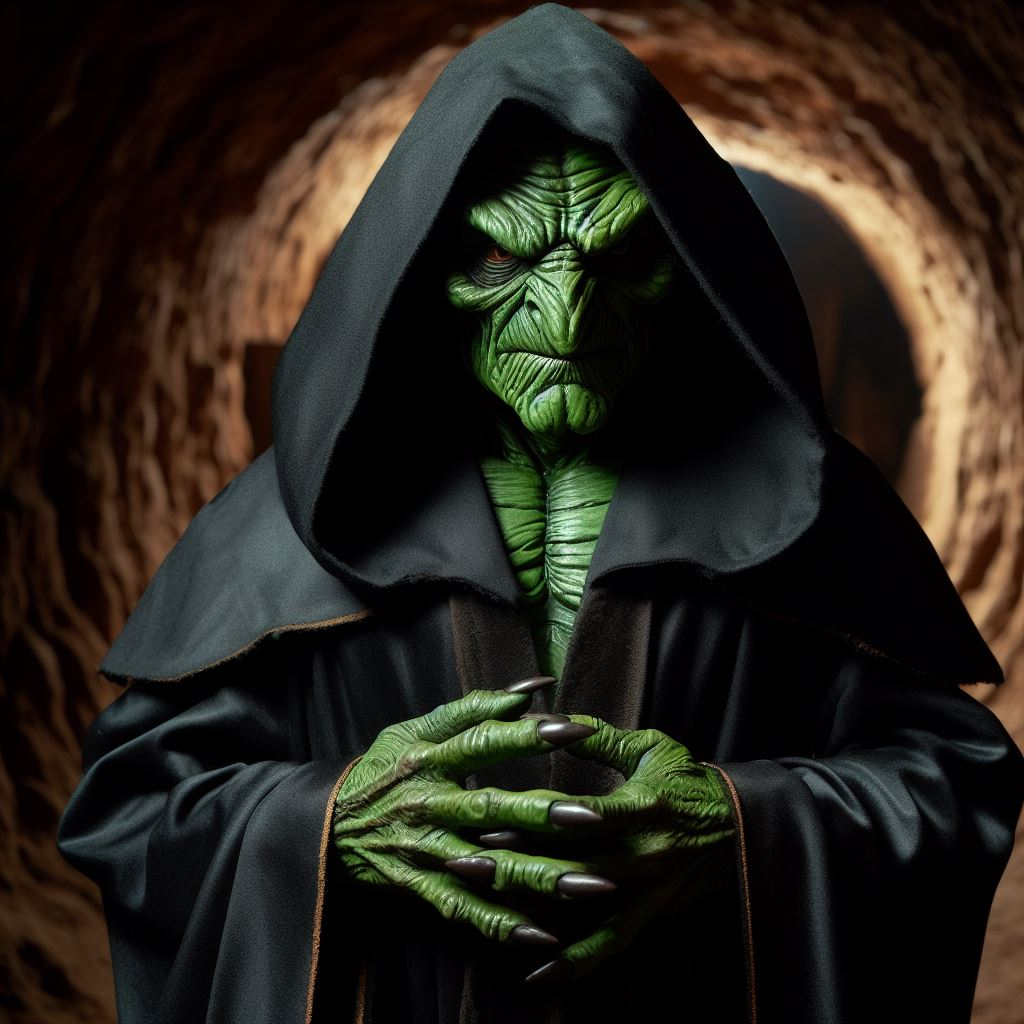
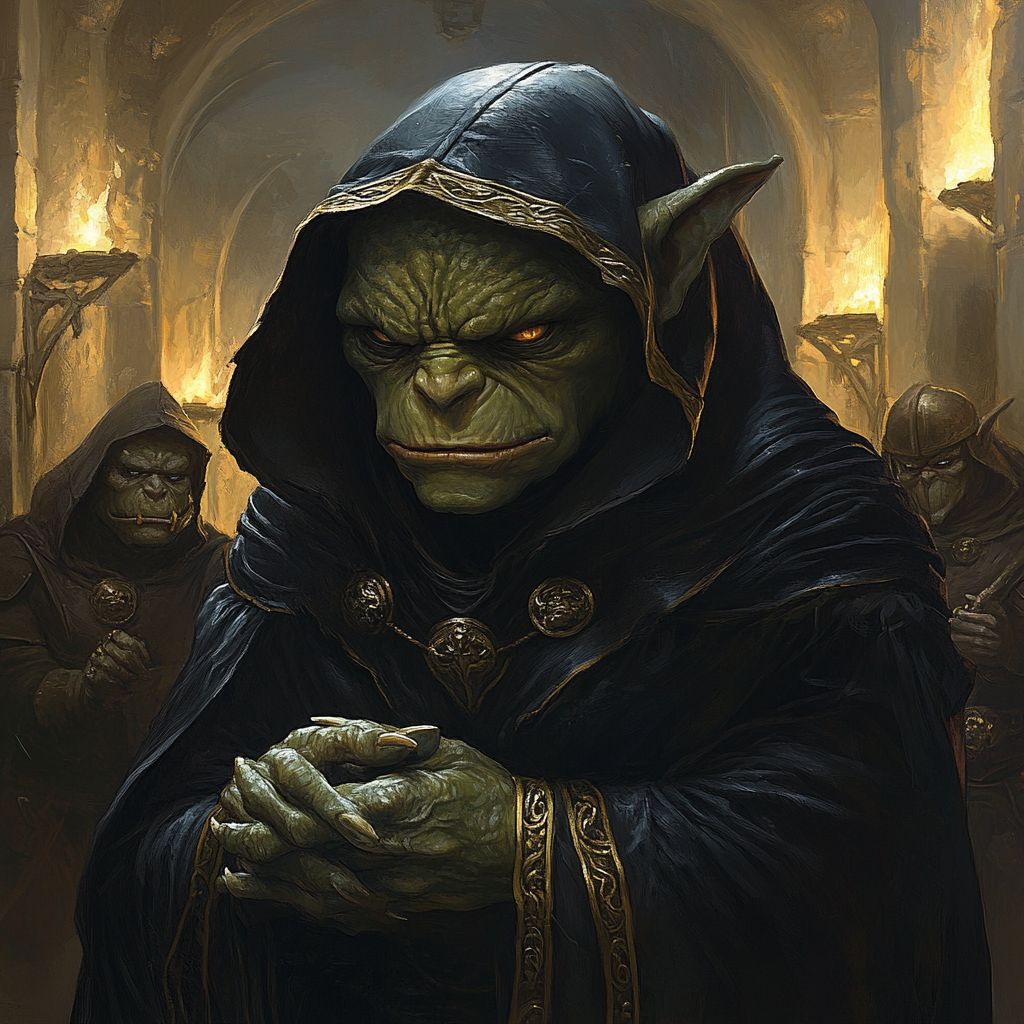
ajout items compador

diff --git a/composeApp/src/androidMain/kotlin/org/levast/project/theme/Theme.kt b/composeApp/src/androidMain/kotlin/org/levast/project/theme/Theme.kt
@@ -265,7 +265,7 @@ val unspecified_scheme = ColorFamily(
 fun AppTheme(
     darkTheme: Boolean = isSystemInDarkTheme(),
     // Dynamic color is available on Android 12+
-    dynamicColor: Boolean = true,
+    dynamicColor: Boolean = false,
     content: @Composable() () -> Unit
 ) {
 
